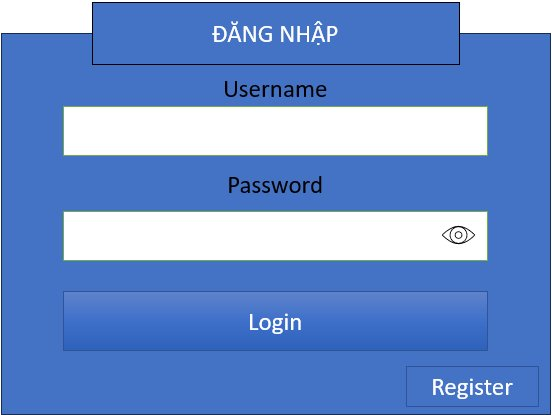
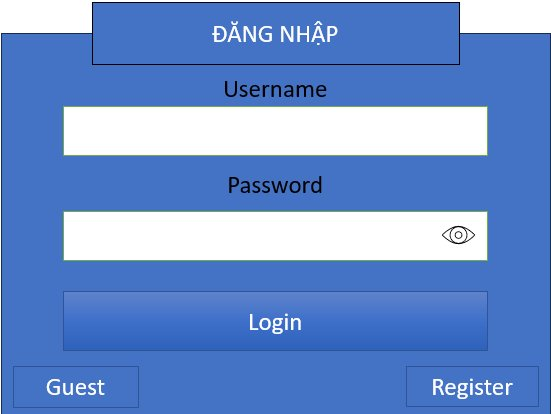
Fix any bug

diff --git a/Login.cpp b/Login.cpp
@@ -69,6 +69,7 @@ Login::Login()
             inFile >> name;
             CheckA[name] = true;
         }
+
         for (int i = 0; i < CountAccount; i++)
         {
             string name;
@@ -78,6 +79,10 @@ Login::Login()
         inFile.close();
     }
     cout << CountAccount << endl;
+    for (auto x : CheckA) cout << x.first << " ";
+    cout << endl;
+    for (auto x : Account) cout << x.first << " " << x.second.first << " " << x.second.second << endl;
+
 }
 
 Login::~Login()
@@ -88,12 +93,17 @@ Login::~Login()
         outFile << CountAccount << endl;
         for (auto x: CheckA)
         {
-            outFile << x.first << " ";
+            outFile << x.first << endl;
+            cout << x.first << endl;
         }
-        outFile << endl;
         for (auto x : Account)
         {
-            outFile << x.first << " " << x.second.first << " " << x.second.second << endl;
+            if (x.first.size())
+            {
+                outFile << x.first << " " << x.second.first << " " << x.second.second << endl;
+                cout << x.first << " " << x.second.first << " " << x.second.second << endl;
+            }
+            
         }
         outFile.close();
     }
@@ -152,6 +162,11 @@ bool Login::HandleEvent()
             //Special key input
             if (Log)
             {
+                RName = "";
+                RPass = "";
+                RCPass = "";
+                RHidePass = "";
+                RCHidePass = "";
                 if (e.type == SDL_KEYDOWN)
                 {
                     //Handle backspace
@@ -256,18 +271,18 @@ bool Login::HandleEvent()
                 {
                     int x = e.motion.x, y = e.motion.y;
                     cout << x << " " << y << endl;
-                    if (x >= 977 && x <= 977 + 115 && y >= 111 && y <= 226)
-                    {
-                        Lquit = true;
-                        //isHadNameInput = false;
-                        break;
-                    }
+                    //if (x >= 977 && x <= 977 + 115 && y >= 111 && y <= 226)
+                    //{
+                    //    Lquit = true;
+                    //    //isHadNameInput = false;
+                    //    break;
+                    //}
                     //else if (x >= 407 && x <= 407 + 470 && y >= 509 && y <= 613 && Name.size() && Pass.size())
                     //{
                     //    Lquit = true;
                     //    //isHadNameInput = true;
                     //}
-                    else if (x >= 800 && x <= 840 && y >= 375 && y <= 400)
+                    /*else*/ if (x >= 800 && x <= 840 && y >= 375 && y <= 400)
                     {
                         Hide = !Hide;
                         if (Hide) LPinputTextTexture.loadFromRenderedText(HidePass.c_str(), textColor, 25);
@@ -277,6 +292,13 @@ bool Login::HandleEvent()
                     {
                         cout << "Register\n";
                         Log = false;
+                    }
+                    else if (x >= 380 && x <= 500 && y >= 520 && y <= 560)
+                    {
+                        cout << "Guest\n";
+                        Name = "Guest";
+                        checkGuest = true;
+                        Lquit = true;
                     }
                     else if (x >= 430 && x <= 850)
                     {
@@ -325,6 +347,9 @@ bool Login::HandleEvent()
             }
             else
             {
+                Name = "";
+                Pass = "";
+                HidePass = "";
                 //Register;
                 if (e.type == SDL_KEYDOWN)
                 {
@@ -529,14 +554,20 @@ bool Login::HandleEvent()
             }
             
         }
+        renderText = true;
         //Rerender text if needed
         if (renderText)
         {
             //Text is not empty
             if (Log)
             {
-                if (Lcheck)
-                {
+                RName = "";
+                RPass = "";
+                RCPass = "";
+                RHidePass = "";
+                RCHidePass = "";
+                /*if (Lcheck)
+                {*/
                     if (Name != "")
                     {
                         //Render new text
@@ -548,9 +579,9 @@ bool Login::HandleEvent()
                         //Render space texture
                         LNinputTextTexture.loadFromRenderedText(" ", textColor, 25);
                     }
-                }
+                /*}
                 else
-                {
+                {*/
                     if (Pass != "")
                     {
                         //Render new text
@@ -563,13 +594,16 @@ bool Login::HandleEvent()
                         //Render space texture
                         LPinputTextTexture.loadFromRenderedText(" ", textColor, 25);
                     }
-                }
+                //}
             }
             else
             {
+                Name = "";
+                Pass = "";
+                HidePass = "";
                 //Register
-                if (Rcheck == 0)
-                {
+                /*if (Rcheck == 0)
+                {*/
                     if (RName != "")
                     {
                         //Render new text
@@ -581,9 +615,9 @@ bool Login::HandleEvent()
                         //Render space texture
                         RNinputTextTexture.loadFromRenderedText(" ", textColor, 25);
                     }
-                }
+                /*}
                 else if(Rcheck == 1)
-                {
+                {*/
                     if (RPass != "")
                     {
                         //Render new text
@@ -597,9 +631,9 @@ bool Login::HandleEvent()
                         //Render space texture
                         RPinputTextTexture.loadFromRenderedText(" ", textColor, 25);
                     }
-                }
+                /*}
                 else
-                {
+                {*/
                     if (RCPass != "")
                     {
                         //Render new text
@@ -613,7 +647,7 @@ bool Login::HandleEvent()
                         //Render space texture
                         RCPinputTextTexture.loadFromRenderedText(" ", textColor, 25);
                     }
-                }
+                //}
             }
             
             
@@ -672,3 +706,7 @@ string Login::getName()
     return Name;
 }
 
+bool Login::getGuest()
+{
+    return checkGuest;
+}

diff --git a/MenuStart.cpp b/MenuStart.cpp
@@ -16,13 +16,36 @@ MenuStart::MenuStart(string PlayerName) : isRunning(true), MenuStartButton(vecto
     isOut = false;
     this->PlayerName = PlayerName;
     const wchar_t* folderPath = L"Data//MenuImage";
-    TmpImages.resize(countPNGFiles(folderPath));
+    TmpImages.resize(MScountPNGFiles(folderPath));
     MenuImage.resize(TmpImages.size());
     TOTAL_IMAGE = TmpImages.size();
 }
 
 MenuStart::~MenuStart() {
     close();
+}
+
+int MenuStart::MScountPNGFiles(const wchar_t* folderPath)
+{
+    WIN32_FIND_DATAW findFileData;
+    HANDLE hFind = INVALID_HANDLE_VALUE;
+    int pngFileCount = 0;
+    std::wstring searchPath = std::wstring(folderPath) + L"\\*.png";
+
+    hFind = FindFirstFileW(searchPath.c_str(), &findFileData);
+    if (hFind != INVALID_HANDLE_VALUE) {
+        do {
+            if (!(findFileData.dwFileAttributes & FILE_ATTRIBUTE_DIRECTORY)) {
+                pngFileCount++;
+            }
+        } while (FindNextFileW(hFind, &findFileData) != 0);
+        FindClose(hFind);
+    }
+    else {
+        std::wcerr << L"Không thể mở thư mục hoặc không có file .png!" << std::endl;
+    }
+
+    return pngFileCount;
 }
 
 LTexture TypeMenu;
@@ -135,6 +158,7 @@ void MenuStart::close() {
 
 bool MenuStart::CheckNonFinishGame(int n)
 {
+    if (GUEST) return false;
     string tenfile = "ContinueGame//puzzle";
     string N = to_string(n);
     tenfile += N + ".txt";

diff --git a/Main_Menu.cpp b/Main_Menu.cpp
@@ -8,7 +8,7 @@ MainMenu::MainMenu(string PlayerName) {
     this->PlayerName = PlayerName;
 }
 
-int countPNGFiles(const wchar_t* folderPath) {
+int MainMenu::countPNGFiles(const wchar_t* folderPath) {
     WIN32_FIND_DATAW findFileData;
     HANDLE hFind = INVALID_HANDLE_VALUE;
     int pngFileCount = 0;
@@ -156,20 +156,6 @@ void MainMenu::run() {
                     switch (i) {
                     case BUTTON_START:
                     {
-                        GetPlayerName GetPlayerName;
-                        if (CanGetName)
-                        {
-                            if (!GetPlayerName.run())
-                            {
-                                cout << "Player Name is Empty " << endl;
-                                break;
-                            }
-                            else
-                            {
-                                CanGetName = false;
-                                PlayerName = GetPlayerName.getInputText();
-                            }
-                        }
                         isBackButtonClick = false;
                         // Thực hiện hành động khi nút PLAY_BUTTON được nhấn
                         MenuStart startgame(PlayerName);

diff --git a/main.cpp b/main.cpp
@@ -22,7 +22,7 @@ bool SoundOn = true;
 int Volume = 126;
 int TOTAL_IMAGE = 4;
 int NumCurrent = 0;
-
+bool GUEST = false;
 int main(int argc, char* argv[])
 {
     
@@ -30,11 +30,18 @@ int main(int argc, char* argv[])
     {
         Login user;
         user.Run();
-        NumCurrent = user.getNumFile();
-        MainMenu a(user.getName());
-    isUSE = false;
-    MainMenu a;
-        a.run();
+        GUEST = user.getGuest();
+        if (!GUEST)
+        {
+            NumCurrent = user.getNumFile();
+            MainMenu a(user.getName());
+            a.run();
+        }
+        else
+        {
+            MainMenu a("Guest");
+            a.run();
+        }
         isUSE = false;
         SDL_DestroyRenderer(gRenderer);
         SDL_DestroyWindow(gWindow);

diff --git a/Gameplay.cpp b/Gameplay.cpp
@@ -610,6 +610,7 @@ void Gameplay::SolveMouse(pair<int, int> p)
 
 void Gameplay::Infile()
 {
+    if (GUEST) return;
     cout << "Infile run" << endl;
     string tenfile = "ContinueGame//puzzle";
     string N = to_string(n);
@@ -667,6 +668,7 @@ bool Gameplay::AddScoretoFile()
 
 void Gameplay::Outfile()
 {
+    if (GUEST) return;
     string tenfile = "ContinueGame//puzzle";
     string N = to_string(n);
     tenfile += N + to_string(NumCurrent) + ".txt";

diff --git a/Login.h b/Login.h
@@ -31,6 +31,7 @@ class Login
 	string RName;
 	string RPass;
 	string RCPass;
+	bool checkGuest = false;
 public:
 	Login();
 	~Login();
@@ -44,5 +45,6 @@ public:
 	string getName();
 	void TaoFile(string num, string type);
 	int getNumFile();
+	bool getGuest();
 };
 

diff --git a/MenuStart.h b/MenuStart.h
@@ -40,7 +40,7 @@ public:
     MenuStart();
     MenuStart(string PlayerName);
     ~MenuStart();
-    int countPNGFiles(const wchar_t* folderPath);
+    int MScountPNGFiles(const wchar_t* folderPath);
     bool init();
     bool loadMedia();
     void close();

diff --git a/Main_Menu.h b/Main_Menu.h
@@ -14,6 +14,7 @@
 class MainMenu {
 public:
     MainMenu(string PlayerName);
+    int countPNGFiles(const wchar_t* folderPath);
     ~MainMenu();
     bool init();
     bool loadMedia();

diff --git a/CommonFunc.h b/CommonFunc.h
@@ -72,6 +72,7 @@ extern bool isUSE;
 extern bool isInit;
 
 extern int NumCurrent;
+extern bool GUEST;
 //Trạng thái của button
 enum LButtonSprite
 {
